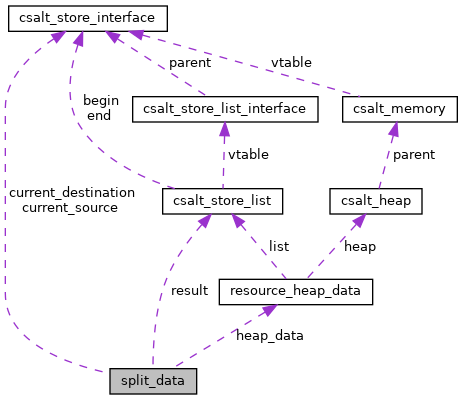
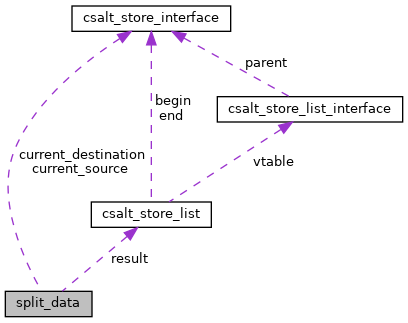
Don't include private implementation in docs

diff --git a/docs/search/functions_0.js b/docs/search/functions_0.js
@@ -1,33 +1,33 @@
 var searchData=
 [
-  ['csalt_5fheap_98',['csalt_heap',['../baseresources_8h.html#ac6732704187a5216e60dd478006713ff',1,'resources.c']]],
-  ['csalt_5fheap_5flazy_99',['csalt_heap_lazy',['../baseresources_8h.html#a40ccc673dbd88e59a2d7c1dcbfa633d1',1,'resources.c']]],
-  ['csalt_5fnoop_5fdeinit_100',['csalt_noop_deinit',['../baseresources_8h.html#a317013d5c8f88f06c7b304e55e1eca06',1,'resources.c']]],
-  ['csalt_5fnoop_5finit_101',['csalt_noop_init',['../baseresources_8h.html#a2780cd16c17784a20af7476fe1efcf4d',1,'resources.c']]],
-  ['csalt_5fnoop_5fvalid_102',['csalt_noop_valid',['../baseresources_8h.html#a391cbdc1c6593cb99bbfc16694798f45',1,'resources.c']]],
-  ['csalt_5fresource_5fcreate_5ffile_103',['csalt_resource_create_file',['../fileresource_8h.html#a4b2a8c6d94dcb9a1bac1d5e36cd999cf',1,'file.c']]],
-  ['csalt_5fresource_5fdeinit_104',['csalt_resource_deinit',['../baseresources_8h.html#a71a312967761bd2e08c48c9ccd5d9a57',1,'resources.c']]],
-  ['csalt_5fresource_5ffallback_5fbounds_105',['csalt_resource_fallback_bounds',['../compositeresources_8h.html#ad6ea523c004d5bbb58b16ac94597db8a',1,'compositeresources.c']]],
-  ['csalt_5fresource_5ffile_106',['csalt_resource_file',['../fileresource_8h.html#aa6d6d84e7ab967e17960ac1b739c26a4',1,'file.c']]],
-  ['csalt_5fresource_5ffirst_5fbounds_107',['csalt_resource_first_bounds',['../compositeresources_8h.html#a5e30a6f4593605115ad538816b2ec182',1,'compositeresources.c']]],
-  ['csalt_5fresource_5fheap_5fraw_108',['csalt_resource_heap_raw',['../baseresources_8h.html#a3344f164d4e87a46b6aff0b5238fc922',1,'resources.c']]],
-  ['csalt_5fresource_5finit_109',['csalt_resource_init',['../baseresources_8h.html#a3b9feeb5c9185d5bc60eae2ce2299573',1,'resources.c']]],
-  ['csalt_5fresource_5flist_5fbounds_110',['csalt_resource_list_bounds',['../compositeresources_8h.html#a8d2f4b76c188339c83c4d5fa3fc85ddc',1,'compositeresources.c']]],
-  ['csalt_5fresource_5flist_5fget_111',['csalt_resource_list_get',['../compositeresources_8h.html#a8986780495f8880d31aa3841d6bc932a',1,'compositeresources.c']]],
-  ['csalt_5fresource_5flist_5flength_112',['csalt_resource_list_length',['../compositeresources_8h.html#a0c7e888975d89b785178fddfbf6aab4e',1,'compositeresources.c']]],
-  ['csalt_5fresource_5fuse_113',['csalt_resource_use',['../baseresources_8h.html#ad899570f6f3799ff5a028cb0ac44af45',1,'resources.c']]],
-  ['csalt_5fresource_5fvalid_114',['csalt_resource_valid',['../baseresources_8h.html#a5a60c29c6a35102e375a4b33dfd5b833',1,'resources.c']]],
-  ['csalt_5fstore_5ffallback_5fbounds_115',['csalt_store_fallback_bounds',['../compositestores_8h.html#a2690f7aca20b00ef29f4bf0fe6d66eac',1,'compositestores.c']]],
-  ['csalt_5fstore_5ffallback_5fflush_116',['csalt_store_fallback_flush',['../compositestores_8h.html#aafaaddf442c03aa12d964e90b4785a75',1,'compositestores.c']]],
-  ['csalt_5fstore_5flist_5fbounds_117',['csalt_store_list_bounds',['../compositestores_8h.html#aa195f41b03ca2678aa2cf5f400dc3fb9',1,'compositestores.c']]],
-  ['csalt_5fstore_5flist_5fget_118',['csalt_store_list_get',['../compositestores_8h.html#a90d4e8f264c1d277991414fc4bb3d685',1,'compositestores.c']]],
-  ['csalt_5fstore_5flist_5flength_119',['csalt_store_list_length',['../compositestores_8h.html#a333d614e239cad6b34edfda24527d1c9',1,'compositestores.c']]],
-  ['csalt_5fstore_5fmemory_5fbounds_120',['csalt_store_memory_bounds',['../basestores_8h.html#af825a25160b9613d9d88c6f979a6c956',1,'stores.c']]],
-  ['csalt_5fstore_5fmemory_5fraw_121',['csalt_store_memory_raw',['../basestores_8h.html#aec1e5aee32eb807db57e625981b8529c',1,'stores.c']]],
-  ['csalt_5fstore_5fread_122',['csalt_store_read',['../basestores_8h.html#adda04cfbc7d9065f56ba32fb7698b774',1,'stores.c']]],
-  ['csalt_5fstore_5fsize_123',['csalt_store_size',['../basestores_8h.html#aef31425e1aeff00a39c9cac218d10b7c',1,'stores.c']]],
-  ['csalt_5fstore_5fsplit_124',['csalt_store_split',['../basestores_8h.html#a10f600145423c05afe3bc2c1d44bd101',1,'stores.c']]],
-  ['csalt_5fstore_5ftransfer_125',['csalt_store_transfer',['../basestores_8h.html#a985f7badc237622829ca9a7273420a7a',1,'stores.c']]],
-  ['csalt_5fstore_5fwrite_126',['csalt_store_write',['../basestores_8h.html#af08cbcd3a9ab090e7cea564de5374541',1,'stores.c']]],
-  ['csalt_5ftransfer_127',['csalt_transfer',['../basestores_8h.html#aeddee25f693cc4bf53ec7556dbef74eb',1,'stores.c']]]
+  ['csalt_5fheap_96',['csalt_heap',['../baseresources_8h.html#ac6732704187a5216e60dd478006713ff',1,'resources.c']]],
+  ['csalt_5fheap_5flazy_97',['csalt_heap_lazy',['../baseresources_8h.html#a40ccc673dbd88e59a2d7c1dcbfa633d1',1,'resources.c']]],
+  ['csalt_5fnoop_5fdeinit_98',['csalt_noop_deinit',['../baseresources_8h.html#a317013d5c8f88f06c7b304e55e1eca06',1,'resources.c']]],
+  ['csalt_5fnoop_5finit_99',['csalt_noop_init',['../baseresources_8h.html#a2780cd16c17784a20af7476fe1efcf4d',1,'resources.c']]],
+  ['csalt_5fnoop_5fvalid_100',['csalt_noop_valid',['../baseresources_8h.html#a391cbdc1c6593cb99bbfc16694798f45',1,'resources.c']]],
+  ['csalt_5fresource_5fcreate_5ffile_101',['csalt_resource_create_file',['../fileresource_8h.html#a4b2a8c6d94dcb9a1bac1d5e36cd999cf',1,'file.c']]],
+  ['csalt_5fresource_5fdeinit_102',['csalt_resource_deinit',['../baseresources_8h.html#a71a312967761bd2e08c48c9ccd5d9a57',1,'resources.c']]],
+  ['csalt_5fresource_5ffallback_5fbounds_103',['csalt_resource_fallback_bounds',['../compositeresources_8h.html#ad6ea523c004d5bbb58b16ac94597db8a',1,'compositeresources.c']]],
+  ['csalt_5fresource_5ffile_104',['csalt_resource_file',['../fileresource_8h.html#aa6d6d84e7ab967e17960ac1b739c26a4',1,'file.c']]],
+  ['csalt_5fresource_5ffirst_5fbounds_105',['csalt_resource_first_bounds',['../compositeresources_8h.html#a5e30a6f4593605115ad538816b2ec182',1,'compositeresources.c']]],
+  ['csalt_5fresource_5fheap_5fraw_106',['csalt_resource_heap_raw',['../baseresources_8h.html#a3344f164d4e87a46b6aff0b5238fc922',1,'resources.c']]],
+  ['csalt_5fresource_5finit_107',['csalt_resource_init',['../baseresources_8h.html#a3b9feeb5c9185d5bc60eae2ce2299573',1,'resources.c']]],
+  ['csalt_5fresource_5flist_5fbounds_108',['csalt_resource_list_bounds',['../compositeresources_8h.html#a8d2f4b76c188339c83c4d5fa3fc85ddc',1,'compositeresources.c']]],
+  ['csalt_5fresource_5flist_5fget_109',['csalt_resource_list_get',['../compositeresources_8h.html#a8986780495f8880d31aa3841d6bc932a',1,'compositeresources.c']]],
+  ['csalt_5fresource_5flist_5flength_110',['csalt_resource_list_length',['../compositeresources_8h.html#a0c7e888975d89b785178fddfbf6aab4e',1,'compositeresources.c']]],
+  ['csalt_5fresource_5fuse_111',['csalt_resource_use',['../baseresources_8h.html#ad899570f6f3799ff5a028cb0ac44af45',1,'resources.c']]],
+  ['csalt_5fresource_5fvalid_112',['csalt_resource_valid',['../baseresources_8h.html#a5a60c29c6a35102e375a4b33dfd5b833',1,'resources.c']]],
+  ['csalt_5fstore_5ffallback_5fbounds_113',['csalt_store_fallback_bounds',['../compositestores_8h.html#a2690f7aca20b00ef29f4bf0fe6d66eac',1,'compositestores.c']]],
+  ['csalt_5fstore_5ffallback_5fflush_114',['csalt_store_fallback_flush',['../compositestores_8h.html#aafaaddf442c03aa12d964e90b4785a75',1,'compositestores.c']]],
+  ['csalt_5fstore_5flist_5fbounds_115',['csalt_store_list_bounds',['../compositestores_8h.html#aa195f41b03ca2678aa2cf5f400dc3fb9',1,'compositestores.c']]],
+  ['csalt_5fstore_5flist_5fget_116',['csalt_store_list_get',['../compositestores_8h.html#a90d4e8f264c1d277991414fc4bb3d685',1,'compositestores.c']]],
+  ['csalt_5fstore_5flist_5flength_117',['csalt_store_list_length',['../compositestores_8h.html#a333d614e239cad6b34edfda24527d1c9',1,'compositestores.c']]],
+  ['csalt_5fstore_5fmemory_5fbounds_118',['csalt_store_memory_bounds',['../basestores_8h.html#af825a25160b9613d9d88c6f979a6c956',1,'stores.c']]],
+  ['csalt_5fstore_5fmemory_5fraw_119',['csalt_store_memory_raw',['../basestores_8h.html#aec1e5aee32eb807db57e625981b8529c',1,'stores.c']]],
+  ['csalt_5fstore_5fread_120',['csalt_store_read',['../basestores_8h.html#adda04cfbc7d9065f56ba32fb7698b774',1,'stores.c']]],
+  ['csalt_5fstore_5fsize_121',['csalt_store_size',['../basestores_8h.html#aef31425e1aeff00a39c9cac218d10b7c',1,'stores.c']]],
+  ['csalt_5fstore_5fsplit_122',['csalt_store_split',['../basestores_8h.html#a10f600145423c05afe3bc2c1d44bd101',1,'stores.c']]],
+  ['csalt_5fstore_5ftransfer_123',['csalt_store_transfer',['../basestores_8h.html#a985f7badc237622829ca9a7273420a7a',1,'stores.c']]],
+  ['csalt_5fstore_5fwrite_124',['csalt_store_write',['../basestores_8h.html#af08cbcd3a9ab090e7cea564de5374541',1,'stores.c']]],
+  ['csalt_5ftransfer_125',['csalt_transfer',['../basestores_8h.html#aeddee25f693cc4bf53ec7556dbef74eb',1,'stores.c']]]
 ];

diff --git a/docs/files.html b/docs/files.html
@@ -66,18 +66,16 @@ $(function() {
 </div><!--header-->
 <div class="contents">
 <div class="textblock">Here is a list of all documented files with brief descriptions:</div><div class="directory">
-<div class="levels">[detail level <span onclick="javascript:toggleLevel(1);">1</span><span onclick="javascript:toggleLevel(2);">2</span><span onclick="javascript:toggleLevel(3);">3</span>]</div><table class="directory">
+<div class="levels">[detail level <span onclick="javascript:toggleLevel(1);">1</span><span onclick="javascript:toggleLevel(2);">2</span>]</div><table class="directory">
 <tr id="row_0_" class="even"><td class="entry"><span style="width:0px;display:inline-block;">&#160;</span><span id="arr_0_" class="arrow" onclick="toggleFolder('0_')">&#9660;</span><span id="img_0_" class="iconfopen" onclick="toggleFolder('0_')">&#160;</span><a class="el" href="dir_d4118b8b1aebc91b3478ca01c62ed377.html" target="_self">csalt</a></td><td class="desc"></td></tr>
-<tr id="row_0_0_"><td class="entry"><span style="width:16px;display:inline-block;">&#160;</span><span id="arr_0_0_" class="arrow" onclick="toggleFolder('0_0_')">&#9660;</span><span id="img_0_0_" class="iconfopen" onclick="toggleFolder('0_0_')">&#160;</span><a class="el" href="dir_cc25dbf1b3a2af3de10b9b4cda6af06f.html" target="_self">impl</a></td><td class="desc"></td></tr>
-<tr id="row_0_0_0_" class="even"><td class="entry"><span style="width:48px;display:inline-block;">&#160;</span><a href="list__impl_8h_source.html"><span class="icondoc"></span></a><b>list_impl.h</b></td><td class="desc"></td></tr>
-<tr id="row_0_1_"><td class="entry"><span style="width:32px;display:inline-block;">&#160;</span><a href="baseresources_8h_source.html"><span class="icondoc"></span></a><a class="el" href="baseresources_8h.html" target="_self">baseresources.h</a></td><td class="desc">Provides an interface for resources with lifetimes </td></tr>
-<tr id="row_0_2_" class="even"><td class="entry"><span style="width:32px;display:inline-block;">&#160;</span><a href="basestores_8h_source.html"><span class="icondoc"></span></a><a class="el" href="basestores_8h.html" target="_self">basestores.h</a></td><td class="desc">This file defines interfaces for anything which data can be written to or read from </td></tr>
-<tr id="row_0_3_"><td class="entry"><span style="width:32px;display:inline-block;">&#160;</span><a href="compositeresources_8h_source.html"><span class="icondoc"></span></a><a class="el" href="compositeresources_8h.html" target="_self">compositeresources.h</a></td><td class="desc">This file defines abstract resources, which allow you to define relationships between resources </td></tr>
-<tr id="row_0_4_" class="even"><td class="entry"><span style="width:32px;display:inline-block;">&#160;</span><a href="compositestores_8h_source.html"><span class="icondoc"></span></a><a class="el" href="compositestores_8h.html" target="_self">compositestores.h</a></td><td class="desc">This file provides stores which define relationships between stores. Examples include <a class="el" href="structcsalt__store__fallback.html" title="The csalt_store_fallback_store is a csalt_store_list providing fallback logic for operations on the s...">csalt_store_fallback</a>, which allows you to define stores as a priority list where each is tried in order </td></tr>
-<tr id="row_0_5_"><td class="entry"><span style="width:32px;display:inline-block;">&#160;</span><a href="fileresource_8h_source.html"><span class="icondoc"></span></a><a class="el" href="fileresource_8h.html" target="_self">fileresource.h</a></td><td class="desc">Provides a wrapper around on-disk files for use with csalt_resource algorithms </td></tr>
-<tr id="row_0_6_" class="even"><td class="entry"><span style="width:32px;display:inline-block;">&#160;</span><a href="resources_8h_source.html"><span class="icondoc"></span></a><b>resources.h</b></td><td class="desc"></td></tr>
-<tr id="row_0_7_"><td class="entry"><span style="width:32px;display:inline-block;">&#160;</span><a href="stores_8h_source.html"><span class="icondoc"></span></a><b>stores.h</b></td><td class="desc"></td></tr>
-<tr id="row_0_8_" class="even"><td class="entry"><span style="width:32px;display:inline-block;">&#160;</span><a href="util_8h_source.html"><span class="icondoc"></span></a><a class="el" href="util_8h.html" target="_self">util.h</a></td><td class="desc"></td></tr>
+<tr id="row_0_0_"><td class="entry"><span style="width:32px;display:inline-block;">&#160;</span><a href="baseresources_8h_source.html"><span class="icondoc"></span></a><a class="el" href="baseresources_8h.html" target="_self">baseresources.h</a></td><td class="desc">Provides an interface for resources with lifetimes </td></tr>
+<tr id="row_0_1_" class="even"><td class="entry"><span style="width:32px;display:inline-block;">&#160;</span><a href="basestores_8h_source.html"><span class="icondoc"></span></a><a class="el" href="basestores_8h.html" target="_self">basestores.h</a></td><td class="desc">This file defines interfaces for anything which data can be written to or read from </td></tr>
+<tr id="row_0_2_"><td class="entry"><span style="width:32px;display:inline-block;">&#160;</span><a href="compositeresources_8h_source.html"><span class="icondoc"></span></a><a class="el" href="compositeresources_8h.html" target="_self">compositeresources.h</a></td><td class="desc">This file defines abstract resources, which allow you to define relationships between resources </td></tr>
+<tr id="row_0_3_" class="even"><td class="entry"><span style="width:32px;display:inline-block;">&#160;</span><a href="compositestores_8h_source.html"><span class="icondoc"></span></a><a class="el" href="compositestores_8h.html" target="_self">compositestores.h</a></td><td class="desc">This file provides stores which define relationships between stores. Examples include <a class="el" href="structcsalt__store__fallback.html" title="The csalt_store_fallback_store is a csalt_store_list providing fallback logic for operations on the s...">csalt_store_fallback</a>, which allows you to define stores as a priority list where each is tried in order </td></tr>
+<tr id="row_0_4_"><td class="entry"><span style="width:32px;display:inline-block;">&#160;</span><a href="fileresource_8h_source.html"><span class="icondoc"></span></a><a class="el" href="fileresource_8h.html" target="_self">fileresource.h</a></td><td class="desc">Provides a wrapper around on-disk files for use with csalt_resource algorithms </td></tr>
+<tr id="row_0_5_" class="even"><td class="entry"><span style="width:32px;display:inline-block;">&#160;</span><a href="resources_8h_source.html"><span class="icondoc"></span></a><b>resources.h</b></td><td class="desc"></td></tr>
+<tr id="row_0_6_"><td class="entry"><span style="width:32px;display:inline-block;">&#160;</span><a href="stores_8h_source.html"><span class="icondoc"></span></a><b>stores.h</b></td><td class="desc"></td></tr>
+<tr id="row_0_7_" class="even"><td class="entry"><span style="width:32px;display:inline-block;">&#160;</span><a href="util_8h_source.html"><span class="icondoc"></span></a><a class="el" href="util_8h.html" target="_self">util.h</a></td><td class="desc"></td></tr>
 </table>
 </div><!-- directory -->
 </div><!-- contents -->

diff --git a/docs/classes.html b/docs/classes.html
@@ -65,41 +65,38 @@ $(function() {
 <div class="title">Data Structure Index</div>  </div>
 </div><!--header-->
 <div class="contents">
-<div class="qindex"><a class="qindex" href="#letter_c">c</a>&#160;|&#160;<a class="qindex" href="#letter_r">r</a>&#160;|&#160;<a class="qindex" href="#letter_s">s</a>&#160;|&#160;<a class="qindex" href="#letter_t">t</a></div>
+<div class="qindex"><a class="qindex" href="#letter_c">c</a>&#160;|&#160;<a class="qindex" href="#letter_s">s</a>&#160;|&#160;<a class="qindex" href="#letter_t">t</a></div>
 <table class="classindex">
 <tr><td rowspan="2" valign="bottom"><a name="letter_c"></a><table border="0" cellspacing="0" cellpadding="0"><tr><td><div class="ah">&#160;&#160;c&#160;&#160;</div></td></tr></table>
 </td>
 <td valign="top"><a class="el" href="structcsalt__resource__file.html">csalt_resource_file</a>&#160;&#160;&#160;</td>
 <td valign="top"><a class="el" href="structcsalt__store__fallback.html">csalt_store_fallback</a>&#160;&#160;&#160;</td>
-<td rowspan="2" valign="bottom"><a name="letter_r"></a><table border="0" cellspacing="0" cellpadding="0"><tr><td><div class="ah">&#160;&#160;r&#160;&#160;</div></td></tr></table>
+<td rowspan="2" valign="bottom"><a name="letter_s"></a><table border="0" cellspacing="0" cellpadding="0"><tr><td><div class="ah">&#160;&#160;s&#160;&#160;</div></td></tr></table>
 </td>
-<td rowspan="2" valign="bottom"><a name="letter_t"></a><table border="0" cellspacing="0" cellpadding="0"><tr><td><div class="ah">&#160;&#160;t&#160;&#160;</div></td></tr></table>
-</td>
-</tr>
+<td></td></tr>
 <tr><td valign="top"><a class="el" href="structcsalt__resource__first.html">csalt_resource_first</a>&#160;&#160;&#160;</td>
 <td valign="top"><a class="el" href="structcsalt__store__interface.html">csalt_store_interface</a>&#160;&#160;&#160;</td>
-</tr>
+<td></td></tr>
 <tr><td valign="top"><a class="el" href="structcsalt__heap.html">csalt_heap</a>&#160;&#160;&#160;</td>
 <td valign="top"><a class="el" href="structcsalt__resource__interface.html">csalt_resource_interface</a>&#160;&#160;&#160;</td>
 <td valign="top"><a class="el" href="structcsalt__store__list.html">csalt_store_list</a>&#160;&#160;&#160;</td>
-<td valign="top"><a class="el" href="structresource__heap__data.html">resource_heap_data</a>&#160;&#160;&#160;</td>
-<td valign="top"><a class="el" href="structtransfer__data.html">transfer_data</a>&#160;&#160;&#160;</td>
-</tr>
+<td valign="top"><a class="el" href="structsplit__data.html">split_data</a>&#160;&#160;&#160;</td>
+<td></td></tr>
 <tr><td valign="top"><a class="el" href="structcsalt__memory.html">csalt_memory</a>&#160;&#160;&#160;</td>
 <td valign="top"><a class="el" href="structcsalt__resource__list.html">csalt_resource_list</a>&#160;&#160;&#160;</td>
 <td valign="top"><a class="el" href="structcsalt__store__list__interface.html">csalt_store_list_interface</a>&#160;&#160;&#160;</td>
-<td rowspan="2" valign="bottom"><a name="letter_s"></a><table border="0" cellspacing="0" cellpadding="0"><tr><td><div class="ah">&#160;&#160;s&#160;&#160;</div></td></tr></table>
+<td rowspan="2" valign="bottom"><a name="letter_t"></a><table border="0" cellspacing="0" cellpadding="0"><tr><td><div class="ah">&#160;&#160;t&#160;&#160;</div></td></tr></table>
 </td>
 <td></td></tr>
 <tr><td valign="top"><a class="el" href="structcsalt__resource__fallback.html">csalt_resource_fallback</a>&#160;&#160;&#160;</td>
 <td valign="top"><a class="el" href="structcsalt__resource__list__interface.html">csalt_resource_list_interface</a>&#160;&#160;&#160;</td>
 <td valign="top"><a class="el" href="structcsalt__transfer.html">csalt_transfer</a>&#160;&#160;&#160;</td>
 <td></td></tr>
-<tr><td></td><td></td><td></td><td valign="top"><a class="el" href="structsplit__data.html">split_data</a>&#160;&#160;&#160;</td>
+<tr><td></td><td></td><td></td><td valign="top"><a class="el" href="structtransfer__data.html">transfer_data</a>&#160;&#160;&#160;</td>
 <td></td></tr>
 <tr><td></td><td></td><td></td><td></td><td></td></tr>
 </table>
-<div class="qindex"><a class="qindex" href="#letter_c">c</a>&#160;|&#160;<a class="qindex" href="#letter_r">r</a>&#160;|&#160;<a class="qindex" href="#letter_s">s</a>&#160;|&#160;<a class="qindex" href="#letter_t">t</a></div>
+<div class="qindex"><a class="qindex" href="#letter_c">c</a>&#160;|&#160;<a class="qindex" href="#letter_s">s</a>&#160;|&#160;<a class="qindex" href="#letter_t">t</a></div>
 </div><!-- contents -->
 <!-- start footer part -->
 <hr class="footer"/><address class="footer"><small>

diff --git a/docs/search/typedefs_0.js b/docs/search/typedefs_0.js
@@ -1,18 +1,18 @@
 var searchData=
 [
-  ['csalt_5fdeinit_5ffn_129',['csalt_deinit_fn',['../baseresources_8h.html#a82caa9fd32d3047a64d6b0f86507b42d',1,'baseresources.h']]],
-  ['csalt_5fresource_130',['csalt_resource',['../baseresources_8h.html#a45c92d03a7f8f9b97793e37b743d0de0',1,'baseresources.h']]],
-  ['csalt_5fresource_5fblock_131',['csalt_resource_block',['../baseresources_8h.html#aff6ea10aeea8484821e9c3364620df3d',1,'baseresources.h']]],
-  ['csalt_5fresource_5finit_5ffn_132',['csalt_resource_init_fn',['../baseresources_8h.html#ab2980d7fe1e95636db1694aff9c8259b',1,'baseresources.h']]],
-  ['csalt_5fresource_5fread_5ffn_133',['csalt_resource_read_fn',['../baseresources_8h.html#ab13ba10049708cc7dc7871e7d635ae35',1,'baseresources.h']]],
-  ['csalt_5fresource_5fvalid_5ffn_134',['csalt_resource_valid_fn',['../baseresources_8h.html#ab9d1d08ea9d7837e896c1474b8c114a3',1,'baseresources.h']]],
-  ['csalt_5fresource_5fwrite_5ffn_135',['csalt_resource_write_fn',['../baseresources_8h.html#a673d47a6069c2d4324e2774477d953e6',1,'baseresources.h']]],
-  ['csalt_5fstore_136',['csalt_store',['../basestores_8h.html#ac66e06a1a0ca733fac1fde946e62b399',1,'basestores.h']]],
-  ['csalt_5fstore_5fblock_5ffn_137',['csalt_store_block_fn',['../basestores_8h.html#a754a0571114d69241e5342689e50f976',1,'basestores.h']]],
-  ['csalt_5fstore_5flist_5freceive_5fsplit_5ffn_138',['csalt_store_list_receive_split_fn',['../compositestores_8h.html#a1323b64ef274eaac1efda2e494331442',1,'compositestores.h']]],
-  ['csalt_5fstore_5fread_5ffn_139',['csalt_store_read_fn',['../basestores_8h.html#a37c8b26a2a19ad69085982ed912c20e3',1,'basestores.h']]],
-  ['csalt_5fstore_5fsize_5ffn_140',['csalt_store_size_fn',['../basestores_8h.html#ad2a9fa999d25f4f43535dc34c8c1c11d',1,'basestores.h']]],
-  ['csalt_5fstore_5fsplit_5ffn_141',['csalt_store_split_fn',['../basestores_8h.html#aff499d5bd3bd912690f7c732289bab05',1,'basestores.h']]],
-  ['csalt_5fstore_5fwrite_5ffn_142',['csalt_store_write_fn',['../basestores_8h.html#a18f1ec07d3ac161f1cb56ac9ee2de5ba',1,'basestores.h']]],
-  ['csalt_5ftransfer_5fcomplete_5ffn_143',['csalt_transfer_complete_fn',['../basestores_8h.html#af080e4946bb33036310f9d5caf399b01',1,'basestores.h']]]
+  ['csalt_5fdeinit_5ffn_127',['csalt_deinit_fn',['../baseresources_8h.html#a82caa9fd32d3047a64d6b0f86507b42d',1,'baseresources.h']]],
+  ['csalt_5fresource_128',['csalt_resource',['../baseresources_8h.html#a45c92d03a7f8f9b97793e37b743d0de0',1,'baseresources.h']]],
+  ['csalt_5fresource_5fblock_129',['csalt_resource_block',['../baseresources_8h.html#aff6ea10aeea8484821e9c3364620df3d',1,'baseresources.h']]],
+  ['csalt_5fresource_5finit_5ffn_130',['csalt_resource_init_fn',['../baseresources_8h.html#ab2980d7fe1e95636db1694aff9c8259b',1,'baseresources.h']]],
+  ['csalt_5fresource_5fread_5ffn_131',['csalt_resource_read_fn',['../baseresources_8h.html#ab13ba10049708cc7dc7871e7d635ae35',1,'baseresources.h']]],
+  ['csalt_5fresource_5fvalid_5ffn_132',['csalt_resource_valid_fn',['../baseresources_8h.html#ab9d1d08ea9d7837e896c1474b8c114a3',1,'baseresources.h']]],
+  ['csalt_5fresource_5fwrite_5ffn_133',['csalt_resource_write_fn',['../baseresources_8h.html#a673d47a6069c2d4324e2774477d953e6',1,'baseresources.h']]],
+  ['csalt_5fstore_134',['csalt_store',['../basestores_8h.html#ac66e06a1a0ca733fac1fde946e62b399',1,'basestores.h']]],
+  ['csalt_5fstore_5fblock_5ffn_135',['csalt_store_block_fn',['../basestores_8h.html#a754a0571114d69241e5342689e50f976',1,'basestores.h']]],
+  ['csalt_5fstore_5flist_5freceive_5fsplit_5ffn_136',['csalt_store_list_receive_split_fn',['../compositestores_8h.html#a1323b64ef274eaac1efda2e494331442',1,'compositestores.h']]],
+  ['csalt_5fstore_5fread_5ffn_137',['csalt_store_read_fn',['../basestores_8h.html#a37c8b26a2a19ad69085982ed912c20e3',1,'basestores.h']]],
+  ['csalt_5fstore_5fsize_5ffn_138',['csalt_store_size_fn',['../basestores_8h.html#ad2a9fa999d25f4f43535dc34c8c1c11d',1,'basestores.h']]],
+  ['csalt_5fstore_5fsplit_5ffn_139',['csalt_store_split_fn',['../basestores_8h.html#aff499d5bd3bd912690f7c732289bab05',1,'basestores.h']]],
+  ['csalt_5fstore_5fwrite_5ffn_140',['csalt_store_write_fn',['../basestores_8h.html#a18f1ec07d3ac161f1cb56ac9ee2de5ba',1,'basestores.h']]],
+  ['csalt_5ftransfer_5fcomplete_5ffn_141',['csalt_transfer_complete_fn',['../basestores_8h.html#af080e4946bb33036310f9d5caf399b01',1,'basestores.h']]]
 ];

diff --git a/docs/search/defines_1.js b/docs/search/defines_1.js
@@ -1,13 +1,13 @@
 var searchData=
 [
-  ['castto_145',['castto',['../util_8h.html#ab43229f6369275dc14bd12743cd82a0c',1,'util.h']]],
-  ['csalt_5fresource_146',['csalt_resource',['../baseresources_8h.html#a646c92cbee29b7f4bbb6d7564df00c8a',1,'baseresources.h']]],
-  ['csalt_5fresource_5ffirst_5farray_147',['csalt_resource_first_array',['../compositeresources_8h.html#a11a2ca062f63dbd7ca3b8e4b251047d3',1,'compositeresources.h']]],
-  ['csalt_5fresource_5flist_5farray_148',['csalt_resource_list_array',['../compositeresources_8h.html#a9d5a3101cbefbdf48463f8e1a098b5db',1,'compositeresources.h']]],
-  ['csalt_5fstore_149',['csalt_store',['../basestores_8h.html#a85bbef6a2d4c1b7fd8cfc240d96ee066',1,'basestores.h']]],
-  ['csalt_5fstore_5ffallback_5farray_150',['csalt_store_fallback_array',['../compositestores_8h.html#a902e524828908972ec9821899782dc91',1,'compositestores.h']]],
-  ['csalt_5fstore_5flist_151',['csalt_store_list',['../compositestores_8h.html#ad5974df7ed8a948e43a95f38f681f744',1,'compositestores.h']]],
-  ['csalt_5fstore_5flist_5farray_152',['csalt_store_list_array',['../compositestores_8h.html#a05b3de0c9314f87ac037f6f89f290cf8',1,'compositestores.h']]],
-  ['csalt_5fstore_5fmemory_5farray_153',['csalt_store_memory_array',['../basestores_8h.html#a91e84246aef7b460f4dddc47704b7257',1,'basestores.h']]],
-  ['csalt_5fstore_5fmemory_5fpointer_154',['csalt_store_memory_pointer',['../basestores_8h.html#ae3963b044b093bfd5993a2effbf213ee',1,'basestores.h']]]
+  ['castto_143',['castto',['../util_8h.html#ab43229f6369275dc14bd12743cd82a0c',1,'util.h']]],
+  ['csalt_5fresource_144',['csalt_resource',['../baseresources_8h.html#a646c92cbee29b7f4bbb6d7564df00c8a',1,'baseresources.h']]],
+  ['csalt_5fresource_5ffirst_5farray_145',['csalt_resource_first_array',['../compositeresources_8h.html#a11a2ca062f63dbd7ca3b8e4b251047d3',1,'compositeresources.h']]],
+  ['csalt_5fresource_5flist_5farray_146',['csalt_resource_list_array',['../compositeresources_8h.html#a9d5a3101cbefbdf48463f8e1a098b5db',1,'compositeresources.h']]],
+  ['csalt_5fstore_147',['csalt_store',['../basestores_8h.html#a85bbef6a2d4c1b7fd8cfc240d96ee066',1,'basestores.h']]],
+  ['csalt_5fstore_5ffallback_5farray_148',['csalt_store_fallback_array',['../compositestores_8h.html#a902e524828908972ec9821899782dc91',1,'compositestores.h']]],
+  ['csalt_5fstore_5flist_149',['csalt_store_list',['../compositestores_8h.html#ad5974df7ed8a948e43a95f38f681f744',1,'compositestores.h']]],
+  ['csalt_5fstore_5flist_5farray_150',['csalt_store_list_array',['../compositestores_8h.html#a05b3de0c9314f87ac037f6f89f290cf8',1,'compositestores.h']]],
+  ['csalt_5fstore_5fmemory_5farray_151',['csalt_store_memory_array',['../basestores_8h.html#a91e84246aef7b460f4dddc47704b7257',1,'basestores.h']]],
+  ['csalt_5fstore_5fmemory_5fpointer_152',['csalt_store_memory_pointer',['../basestores_8h.html#ae3963b044b093bfd5993a2effbf213ee',1,'basestores.h']]]
 ];

diff --git a/docs/search/classes_0.js b/docs/search/classes_0.js
@@ -1,16 +1,16 @@
 var searchData=
 [
-  ['csalt_5fheap_76',['csalt_heap',['../structcsalt__heap.html',1,'']]],
-  ['csalt_5fmemory_77',['csalt_memory',['../structcsalt__memory.html',1,'']]],
-  ['csalt_5fresource_5ffallback_78',['csalt_resource_fallback',['../structcsalt__resource__fallback.html',1,'']]],
-  ['csalt_5fresource_5ffile_79',['csalt_resource_file',['../structcsalt__resource__file.html',1,'']]],
-  ['csalt_5fresource_5ffirst_80',['csalt_resource_first',['../structcsalt__resource__first.html',1,'']]],
-  ['csalt_5fresource_5finterface_81',['csalt_resource_interface',['../structcsalt__resource__interface.html',1,'']]],
-  ['csalt_5fresource_5flist_82',['csalt_resource_list',['../structcsalt__resource__list.html',1,'']]],
-  ['csalt_5fresource_5flist_5finterface_83',['csalt_resource_list_interface',['../structcsalt__resource__list__interface.html',1,'']]],
-  ['csalt_5fstore_5ffallback_84',['csalt_store_fallback',['../structcsalt__store__fallback.html',1,'']]],
-  ['csalt_5fstore_5finterface_85',['csalt_store_interface',['../structcsalt__store__interface.html',1,'']]],
-  ['csalt_5fstore_5flist_86',['csalt_store_list',['../structcsalt__store__list.html',1,'']]],
-  ['csalt_5fstore_5flist_5finterface_87',['csalt_store_list_interface',['../structcsalt__store__list__interface.html',1,'']]],
-  ['csalt_5ftransfer_88',['csalt_transfer',['../structcsalt__transfer.html',1,'']]]
+  ['csalt_5fheap_75',['csalt_heap',['../structcsalt__heap.html',1,'']]],
+  ['csalt_5fmemory_76',['csalt_memory',['../structcsalt__memory.html',1,'']]],
+  ['csalt_5fresource_5ffallback_77',['csalt_resource_fallback',['../structcsalt__resource__fallback.html',1,'']]],
+  ['csalt_5fresource_5ffile_78',['csalt_resource_file',['../structcsalt__resource__file.html',1,'']]],
+  ['csalt_5fresource_5ffirst_79',['csalt_resource_first',['../structcsalt__resource__first.html',1,'']]],
+  ['csalt_5fresource_5finterface_80',['csalt_resource_interface',['../structcsalt__resource__interface.html',1,'']]],
+  ['csalt_5fresource_5flist_81',['csalt_resource_list',['../structcsalt__resource__list.html',1,'']]],
+  ['csalt_5fresource_5flist_5finterface_82',['csalt_resource_list_interface',['../structcsalt__resource__list__interface.html',1,'']]],
+  ['csalt_5fstore_5ffallback_83',['csalt_store_fallback',['../structcsalt__store__fallback.html',1,'']]],
+  ['csalt_5fstore_5finterface_84',['csalt_store_interface',['../structcsalt__store__interface.html',1,'']]],
+  ['csalt_5fstore_5flist_85',['csalt_store_list',['../structcsalt__store__list.html',1,'']]],
+  ['csalt_5fstore_5flist_5finterface_86',['csalt_store_list_interface',['../structcsalt__store__list__interface.html',1,'']]],
+  ['csalt_5ftransfer_87',['csalt_transfer',['../structcsalt__transfer.html',1,'']]]
 ];

diff --git a/docs/dir_000003_000001.html b/docs/dir_000003_000001.html
@@ -5,7 +5,7 @@
 <meta http-equiv="X-UA-Compatible" content="IE=9"/>
 <meta name="generator" content="Doxygen 1.8.17"/>
 <meta name="viewport" content="width=device-width, initial-scale=1"/>
-<title>Ceasoning: resources -&gt; csalt Relation</title>
+<title>Ceasoning: stores -&gt; csalt Relation</title>
 <link href="tabs.css" rel="stylesheet" type="text/css"/>
 <script type="text/javascript" src="jquery.js"></script>
 <script type="text/javascript" src="dynsections.js"></script>
@@ -61,11 +61,11 @@ $(function() {
 
 <div id="nav-path" class="navpath">
   <ul>
-<li class="navelem"><a class="el" href="dir_fa3b942b33b04fef8622e6ed9abffc5c.html">resources</a></li>  </ul>
+<li class="navelem"><a class="el" href="dir_53ca2cb6bd7da516bb406a0946f59453.html">stores</a></li>  </ul>
 </div>
 </div><!-- top -->
 <div class="contents">
-<h3>resources &rarr; csalt Relation</h3><table class="dirtab"><tr class="dirtab"><th class="dirtab">File in resources</th><th class="dirtab">Includes file in csalt</th></tr><tr class="dirtab"><td class="dirtab"><b>compositeresources.c</b></td><td class="dirtab"><a class="el" href="compositeresources_8h.html">compositeresources.h</a></td></tr><tr class="dirtab"><td class="dirtab"><b>compositeresources.c</b></td><td class="dirtab"><a class="el" href="compositestores_8h.html">compositestores.h</a></td></tr><tr class="dirtab"><td class="dirtab"><b>file.c</b></td><td class="dirtab"><a class="el" href="fileresource_8h.html">fileresource.h</a></td></tr><tr class="dirtab"><td class="dirtab"><b>file.c</b></td><td class="dirtab"><a class="el" href="util_8h.html">util.h</a></td></tr><tr class="dirtab"><td class="dirtab"><b>resources.c</b></td><td class="dirtab"><a class="el" href="util_8h.html">util.h</a></td></tr></table></div><!-- contents -->
+<h3>stores &rarr; csalt Relation</h3><table class="dirtab"><tr class="dirtab"><th class="dirtab">File in stores</th><th class="dirtab">Includes file in csalt</th></tr><tr class="dirtab"><td class="dirtab"><b>compositestores.c</b></td><td class="dirtab"><a class="el" href="baseresources_8h.html">baseresources.h</a></td></tr><tr class="dirtab"><td class="dirtab"><b>compositestores.c</b></td><td class="dirtab"><a class="el" href="compositestores_8h.html">compositestores.h</a></td></tr><tr class="dirtab"><td class="dirtab"><b>compositestores.c</b></td><td class="dirtab"><a class="el" href="util_8h.html">util.h</a></td></tr><tr class="dirtab"><td class="dirtab"><b>stores.c</b></td><td class="dirtab"><a class="el" href="util_8h.html">util.h</a></td></tr></table></div><!-- contents -->
 <!-- start footer part -->
 <hr class="footer"/><address class="footer"><small>
 Generated by &#160;<a href="http://www.doxygen.org/index.html">

diff --git a/docs/structsplit__data.html b/docs/structsplit__data.html
@@ -72,13 +72,10 @@ Collaboration diagram for split_data:</div>
 <div class="dyncontent">
 <div class="center"><img src="structsplit__data__coll__graph.png" border="0" usemap="#split__data_coll__map" alt="Collaboration graph"/></div>
 <map name="split__data_coll__map" id="split__data_coll__map">
-<area shape="rect" title=" " alt="" coords="110,368,197,395"/>
-<area shape="rect" href="structcsalt__store__list.html" title="Most abstract stores are implemented as csalt_store_lists, with different algorithms for iterating ov..." alt="" coords="163,188,283,215"/>
-<area shape="rect" href="structresource__heap__data.html" title=" " alt="" coords="219,279,373,305"/>
-<area shape="rect" href="structcsalt__store__interface.html" title=" " alt="" coords="9,5,167,32"/>
-<area shape="rect" href="structcsalt__store__list__interface.html" title=" " alt="" coords="133,96,318,123"/>
-<area shape="rect" href="structcsalt__memory.html" title="A type representing a continuous block of memory." alt="" coords="343,96,457,123"/>
-<area shape="rect" href="structcsalt__heap.html" title="Represents a heap memory resource." alt="" coords="330,188,422,215"/>
+<area shape="rect" title=" " alt="" coords="5,291,92,317"/>
+<area shape="rect" href="structcsalt__store__list.html" title="Most abstract stores are implemented as csalt_store_lists, with different algorithms for iterating ov..." alt="" coords="91,201,211,228"/>
+<area shape="rect" href="structcsalt__store__interface.html" title=" " alt="" coords="72,5,231,32"/>
+<area shape="rect" href="structcsalt__store__list__interface.html" title=" " alt="" coords="217,96,403,123"/>
 </map>
 <center><span class="legend">[<a href="graph_legend.html">legend</a>]</span></center></div>
 <table class="memberdecls">
@@ -94,7 +91,7 @@ Data Fields</h2></td></tr>
 struct <a class="el" href="structcsalt__store__list.html">csalt_store_list</a> *&#160;</td><td class="memItemRight" valign="bottom"><b>result</b></td></tr>
 <tr class="separator:a36430b4ea234ea3b472c50088947fe88"><td class="memSeparator" colspan="2">&#160;</td></tr>
 <tr class="memitem:a76e819edace7b4a49cf78ae99dc9ab5a"><td class="memItemLeft" align="right" valign="top"><a id="a76e819edace7b4a49cf78ae99dc9ab5a"></a>
-struct <a class="el" href="structresource__heap__data.html">resource_heap_data</a> *&#160;</td><td class="memItemRight" valign="bottom"><b>heap_data</b></td></tr>
+struct resource_heap_data *&#160;</td><td class="memItemRight" valign="bottom"><b>heap_data</b></td></tr>
 <tr class="separator:a76e819edace7b4a49cf78ae99dc9ab5a"><td class="memSeparator" colspan="2">&#160;</td></tr>
 </table>
 <hr/>The documentation for this struct was generated from the following file:<ul>

diff --git a/docs/annotated.html b/docs/annotated.html
@@ -80,9 +80,8 @@ $(function() {
 <tr id="row_10_" class="even"><td class="entry"><span style="width:16px;display:inline-block;">&#160;</span><span class="icona"><span class="icon">C</span></span><a class="el" href="structcsalt__store__list.html" target="_self">csalt_store_list</a></td><td class="desc">Most abstract stores are implemented as csalt_store_lists, with different algorithms for iterating over the elements in the list </td></tr>
 <tr id="row_11_"><td class="entry"><span style="width:16px;display:inline-block;">&#160;</span><span class="icona"><span class="icon">C</span></span><a class="el" href="structcsalt__store__list__interface.html" target="_self">csalt_store_list_interface</a></td><td class="desc"></td></tr>
 <tr id="row_12_" class="even"><td class="entry"><span style="width:16px;display:inline-block;">&#160;</span><span class="icona"><span class="icon">C</span></span><a class="el" href="structcsalt__transfer.html" target="_self">csalt_transfer</a></td><td class="desc">This structure allows the transfer algorithm to run in a non-blocking fashion </td></tr>
-<tr id="row_13_"><td class="entry"><span style="width:16px;display:inline-block;">&#160;</span><span class="icona"><span class="icon">C</span></span><a class="el" href="structresource__heap__data.html" target="_self">resource_heap_data</a></td><td class="desc"></td></tr>
-<tr id="row_14_" class="even"><td class="entry"><span style="width:16px;display:inline-block;">&#160;</span><span class="icona"><span class="icon">C</span></span><a class="el" href="structsplit__data.html" target="_self">split_data</a></td><td class="desc"></td></tr>
-<tr id="row_15_"><td class="entry"><span style="width:16px;display:inline-block;">&#160;</span><span class="icona"><span class="icon">C</span></span><a class="el" href="structtransfer__data.html" target="_self">transfer_data</a></td><td class="desc"></td></tr>
+<tr id="row_13_"><td class="entry"><span style="width:16px;display:inline-block;">&#160;</span><span class="icona"><span class="icon">C</span></span><a class="el" href="structsplit__data.html" target="_self">split_data</a></td><td class="desc"></td></tr>
+<tr id="row_14_" class="even"><td class="entry"><span style="width:16px;display:inline-block;">&#160;</span><span class="icona"><span class="icon">C</span></span><a class="el" href="structtransfer__data.html" target="_self">transfer_data</a></td><td class="desc"></td></tr>
 </table>
 </div><!-- directory -->
 </div><!-- contents -->

diff --git a/docs/dir_d4118b8b1aebc91b3478ca01c62ed377.html b/docs/dir_d4118b8b1aebc91b3478ca01c62ed377.html
@@ -70,9 +70,6 @@ $(function() {
 </div><!--header-->
 <div class="contents">
 <table class="memberdecls">
-<tr class="heading"><td colspan="2"><h2 class="groupheader"><a name="subdirs"></a>
-Directories</h2></td></tr>
-</table><table class="memberdecls">
 <tr class="heading"><td colspan="2"><h2 class="groupheader"><a name="files"></a>
 Files</h2></td></tr>
 <tr class="memitem:baseresources_8h"><td class="memItemLeft" align="right" valign="top">file &#160;</td><td class="memItemRight" valign="bottom"><a class="el" href="baseresources_8h.html">baseresources.h</a> <a href="baseresources_8h_source.html">[code]</a></td></tr>

diff --git a/docs/dir_fa3b942b33b04fef8622e6ed9abffc5c.html b/docs/dir_fa3b942b33b04fef8622e6ed9abffc5c.html
@@ -76,7 +76,7 @@ Directory dependency graph for resources:</div>
 <map name="dir__fa3b942b33b04fef8622e6ed9abffc5c__dep" id="dir__fa3b942b33b04fef8622e6ed9abffc5c__dep">
 <area shape="rect" href="dir_fa3b942b33b04fef8622e6ed9abffc5c.html" title="resources" alt="" coords="5,5,91,53"/>
 <area shape="rect" href="dir_d4118b8b1aebc91b3478ca01c62ed377.html" title="csalt" alt="" coords="12,101,84,149"/>
-<area shape="rect" href="dir_000003_000001.html" title="5" alt="" coords="52,76,61,90"/>
+<area shape="rect" href="dir_000002_000001.html" title="5" alt="" coords="52,76,61,90"/>
 </map>
 </div>
 </div><!-- contents -->

diff --git a/docs/dir_53ca2cb6bd7da516bb406a0946f59453.html b/docs/dir_53ca2cb6bd7da516bb406a0946f59453.html
@@ -76,7 +76,7 @@ Directory dependency graph for stores:</div>
 <map name="dir__53ca2cb6bd7da516bb406a0946f59453__dep" id="dir__53ca2cb6bd7da516bb406a0946f59453__dep">
 <area shape="rect" href="dir_53ca2cb6bd7da516bb406a0946f59453.html" title="stores" alt="" coords="5,5,77,53"/>
 <area shape="rect" href="dir_d4118b8b1aebc91b3478ca01c62ed377.html" title="csalt" alt="" coords="5,101,77,149"/>
-<area shape="rect" href="dir_000004_000001.html" title="4" alt="" coords="45,76,54,90"/>
+<area shape="rect" href="dir_000003_000001.html" title="4" alt="" coords="45,76,54,90"/>
 </map>
 </div>
 </div><!-- contents -->
